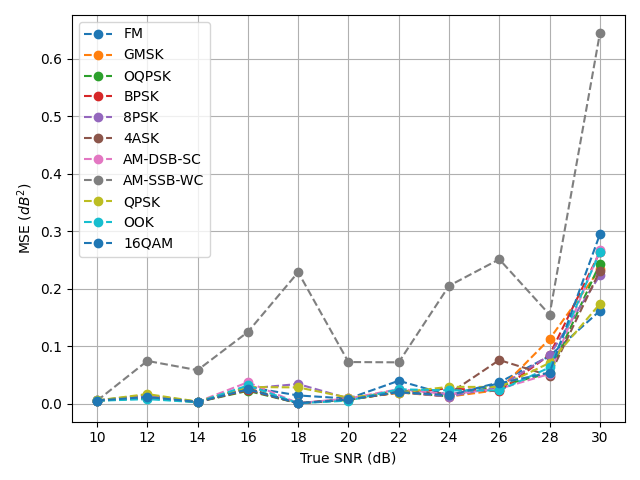
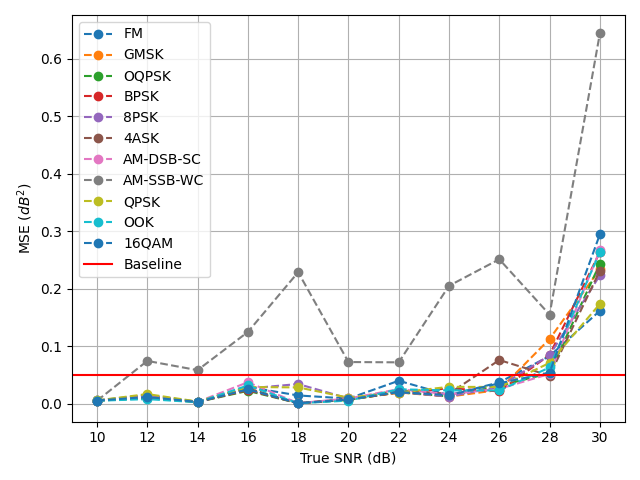
figures

Changed region(s): [[0.125, 0.5312, 0.3125, 0.5625]]

diff --git a/src/eeng645_rudy_finalproject/run_me.py b/src/eeng645_rudy_finalproject/run_me.py
@@ -28,13 +28,13 @@ def main():
     #################
     GENERATE_DATASETS = False
 
-    DO_PART1 = True
+    DO_PART1 = False
     TRAIN_MODULATION_CLASSIFIER = False
-    TEST_MODULATION_CLASSIFIER = True
+    TEST_MODULATION_CLASSIFIER = False
 
     DO_PART2 = True
     TRAIN_SNR_ESTIMATOR = False
-    TEST_SNR_ESTIMATOR = True
+    TEST_SNR_ESTIMATOR = False
 
     ###########################
     ##### Sim. Parameters #####
@@ -190,16 +190,20 @@ def main():
         ### Evaluate Model
         # Select either TEST data or VALIDATION data
         if TEST_MODULATION_CLASSIFIER:
+            print("Testing Modulation Classifier")
             eval_data_pt1 = signals_test_pt1
             y_true = np.array([np.argmax(x) for x in labels_test_pt1])
             cm_file_name = "cm_mod_class_test.png"
         else:
+            print("Validating Modulation Classifier")
             eval_data_pt1 = signals_val_pt1
             y_true = np.array([np.argmax(x) for x in labels_val_pt1])
             cm_file_name = "cm_mod_class_val.png"
 
         # Make predictions and plot in confusion matrix
         y_pred = np.argmax(mod_class_model.predict(eval_data_pt1), axis=1)
+        pt1_accuracy = np.sum(y_pred == y_true)/len(y_true)
+        print(f"Modulation Classifier Accuracy: {pt1_accuracy:.2f}")
         cm_mod_class = confusion_matrix(y_pred=y_pred,y_true=y_true)
         plt.figure()
         cm_disp = ConfusionMatrixDisplay(confusion_matrix=cm_mod_class, display_labels=CLASS_LABELS_STR)
@@ -231,11 +235,13 @@ def main():
         snr_estimator_model = load_model(SNR_EST_CHECKPOINT_LOC)
         ### Evaluate Model
         if TEST_SNR_ESTIMATOR:
+            print("Testing SNR Estimator")
             eval_data_pt2 = signals_test_pt2
             snr_true = snrs_test_pt2
             mod_labels = np.array([np.argmax(x) for x in labels_test_pt2])
             test_val_str = "test"
         else:
+            print("Validating SNR Estimator")
             eval_data_pt2 = signals_val_pt2
             snr_true = snrs_val_pt2
             mod_labels = np.array([np.argmax(x) for x in labels_val_pt2])
@@ -300,6 +306,7 @@ def main():
 
                 plt.plot(snr_values, mse_mod_type, linestyle='--', marker='o', label=plot_str)
             
+            plt.axhline(y=0.05, color='r', linestyle='-', label="Baseline")
 
             # plt.plot(snr_values, mse_array, linestyle='--', marker='o', label=plot_str)
             plt.grid(visible=True)

diff --git a/src/eeng645_rudy_finalproject/cloning-env/train.py b/src/eeng645_rudy_finalproject/cloning-env/train.py
@@ -78,6 +78,7 @@ def get_data2(class_labels_keep=[3,8,2], num_examples=100):
     signals_test_pt3_trimmed = np.array([])
     signals_test_pt3_trimmed = signals_test_pt3_trimmed.reshape((signals_train_pt3_trimmed.shape[0],1024,2))
     labels_test_pt3_trimmed = np.array([])
+
     for class_label in class_labels_keep:
         signals, labels, _ = trim_dataset_by_index(signals_train_pt3, labels_int_train_pt3, snrs_train_pt3, [class_label])
         indices = np.arange(len(labels))
@@ -163,9 +164,9 @@ def get_data2(class_labels_keep=[3,8,2], num_examples=100):
 
 # In this example, keep FM (3), BPSK (8)
 class_labels_keep = [3,8]
-class_labels_keep = get_class_labels_normal()
-# Use 50 examples of each
-num_examples = 10
+# class_labels_keep = get_class_labels_normal()
+# Use 10 examples of each
+num_examples = 20
 signals_train_pt3, labels_train_pt3, signals_test_pt3, labels_test_pt3 = get_data2(class_labels_keep, num_examples)
 num_classes = len(class_labels_keep)
 total_examples = num_examples*num_classes
@@ -185,8 +186,8 @@ select_env = "cloning-v0"
 register_env("cloning-v0", CloningEnv_v0)
 
 local_mode = False
-training_iterations = 150 # max iterations before stopping - recommended
-num_cpu = 5
+training_iterations = 20 # max iterations before stopping - recommended
+num_cpu = 3
 num_gpus = 0
 num_eval_workers = 1
 
@@ -201,7 +202,6 @@ env_config = {
     'num_classes': num_classes,
     'max_steps': signals_train_pt3.shape[0]-1
 }
-print(env_config)
 
 config = (  # 1. Configure the algorithm,
     PPOConfig() # put the actual config object for the algorithm you intend to use (Such as PPO or DQN)

diff --git a/src/eeng645_rudy_finalproject/cloning-env/cloning_env/envs/cloning_env.py b/src/eeng645_rudy_finalproject/cloning-env/cloning_env/envs/cloning_env.py
@@ -24,7 +24,7 @@ class CloningEnv_v0(gymnasium.Env):
     MAX_STEPS = 100
 
     # Possible Rewards
-    REWARD_INCORRECT = -2
+    REWARD_INCORRECT = 0
     REWARD_CORRECT = 1
 
     # Optional metadata dictionary
@@ -79,10 +79,10 @@ class CloningEnv_v0(gymnasium.Env):
         observation = observation.reshape( (1, observation.shape[0], observation.shape[1]) )
         prediction = np.argmax(self.REF_MODEL.predict(observation))
         # custom conditionals for small example use (3 FM /8 BPSK)
-        # if prediction == 3:
-        #     prediction = 0
-        # if prediction == 8:
-        #     prediction = 1
+        if prediction == 3:
+            prediction = 0
+        if prediction == 8:
+            prediction = 1
         return prediction
 
     def step(self, action):
